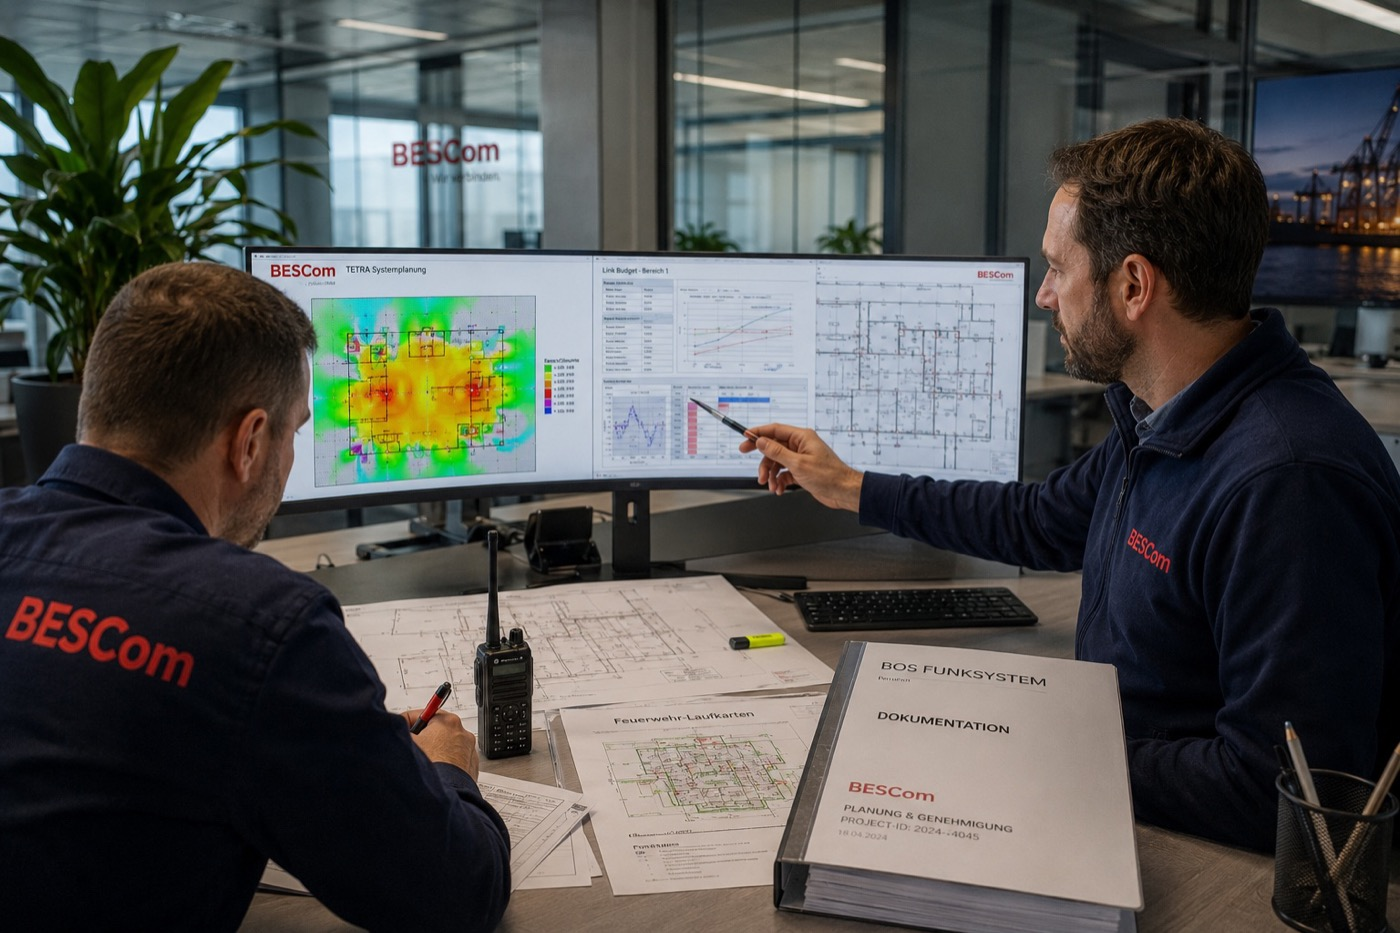
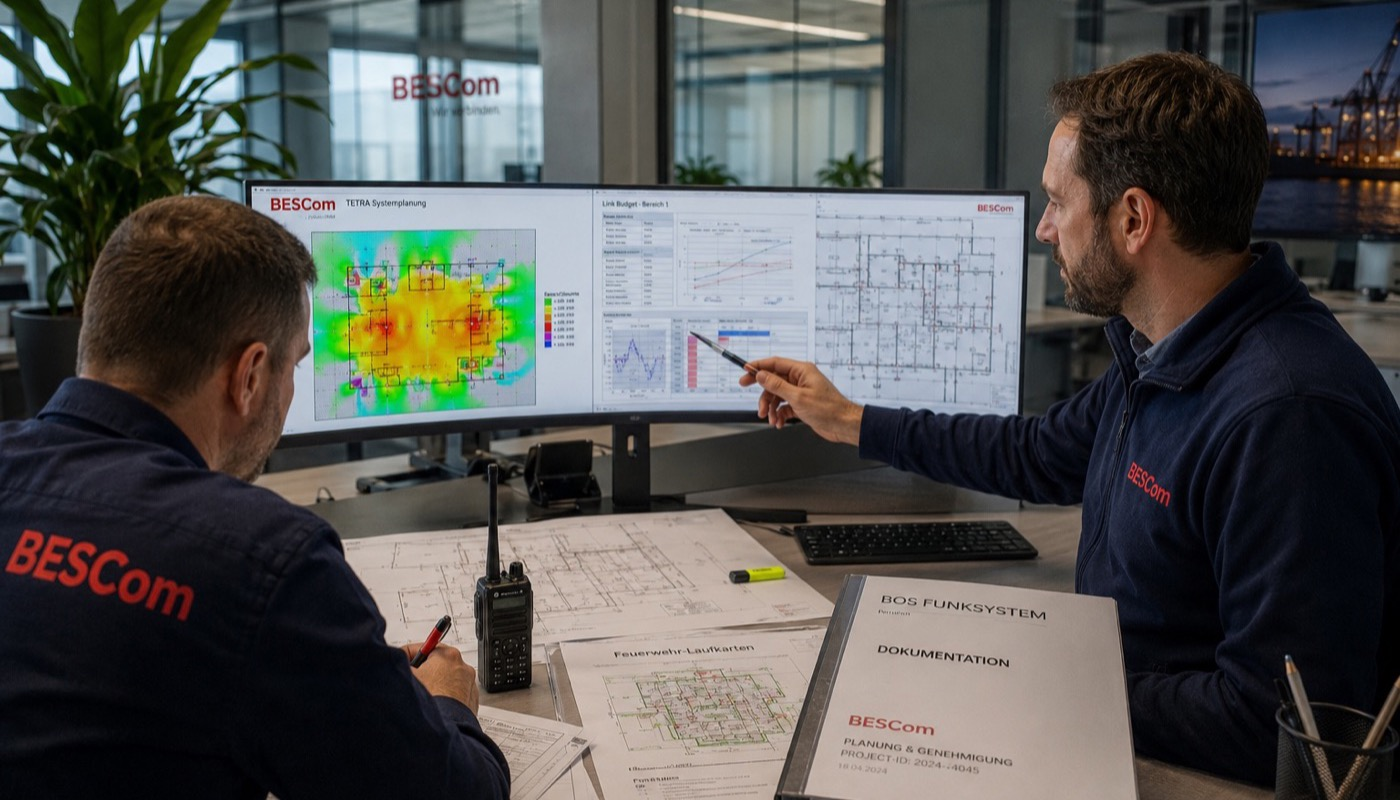
fix: Alle section-photo Fotos auf einheitliches 16:9 Format gebracht
- planung-genehmigung: 1400x933 → 1400x800 (center crop)
- bos-objektfunk-pruefer: 900x900 → 900x506 (16:9 center crop)
- HTML-Attribute für alle 7 Fotos auf korrekte Ist-Maße aktualisiert

diff --git a/industriefunk.html b/industriefunk.html
@@ -268,7 +268,7 @@
       <div data-aos="fade-up">
         <img src="assets/images/systemplanung-frequenzbeantragung-industriefunk.jpg"
              alt="BESCom Ingenieur bei der TETRA Systemplanung und Frequenzbeantragung für Industriefunk"
-             class="section-photo" loading="lazy" width="1400" height="799">
+             class="section-photo" loading="lazy" width="1400" height="800">
       </div>
 
       <div class="service-detail">
@@ -436,7 +436,7 @@
       <div data-aos="fade-up">
         <img src="assets/images/Wartung-Bestandspflege-industrie.jpg"
              alt="BESCom Wartungs-Checkliste und Spektrumanalysator bei der Prüfung einer Industriefunkanlage"
-             class="section-photo" loading="lazy" width="1400" height="801">
+             class="section-photo" loading="lazy" width="1400" height="800">
       </div>
 
       <div class="service-detail">

diff --git a/bos-objektfunk.html b/bos-objektfunk.html
@@ -226,7 +226,7 @@
       <div data-aos="fade-up">
         <img src="assets/images/planung-genehmigung.jpg"
              alt="BESCom Mitarbeiter bei der BOS-Funknetzplanung – Systemplanung und Genehmigungsdokumentation"
-             class="section-photo" loading="lazy" width="1400" height="933">
+             class="section-photo" loading="lazy" width="1400" height="800">
       </div>
 
       <div class="service-detail">
@@ -405,7 +405,7 @@
       <div data-aos="fade-up">
         <img src="assets/images/bos-objektfunk-pruefer.jpg"
              alt="BESCom Techniker bei der Wartung und Prüfung einer BOS-Objektfunkanlage nach DIN 14024"
-             class="section-photo" loading="lazy" width="900" height="900">
+             class="section-photo" loading="lazy" width="900" height="506">
       </div>
 
       <div class="service-detail">
